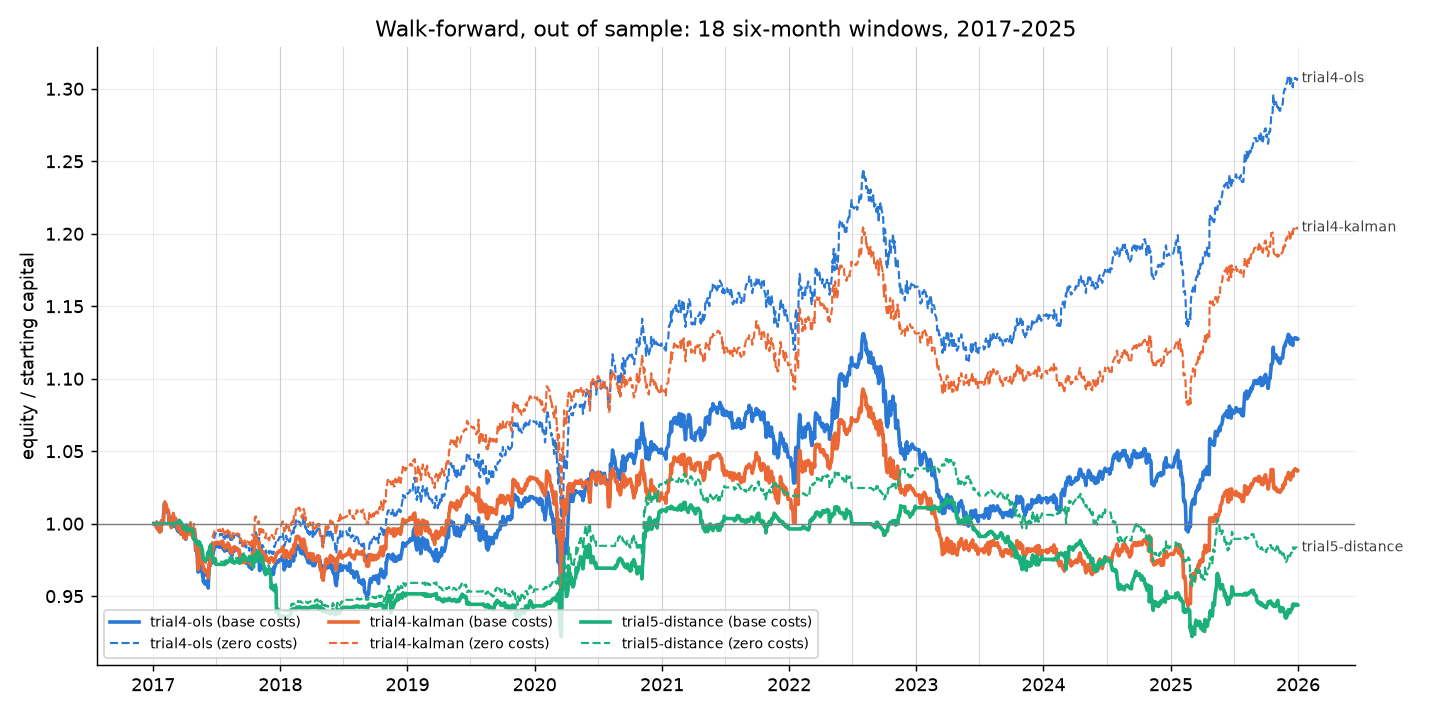
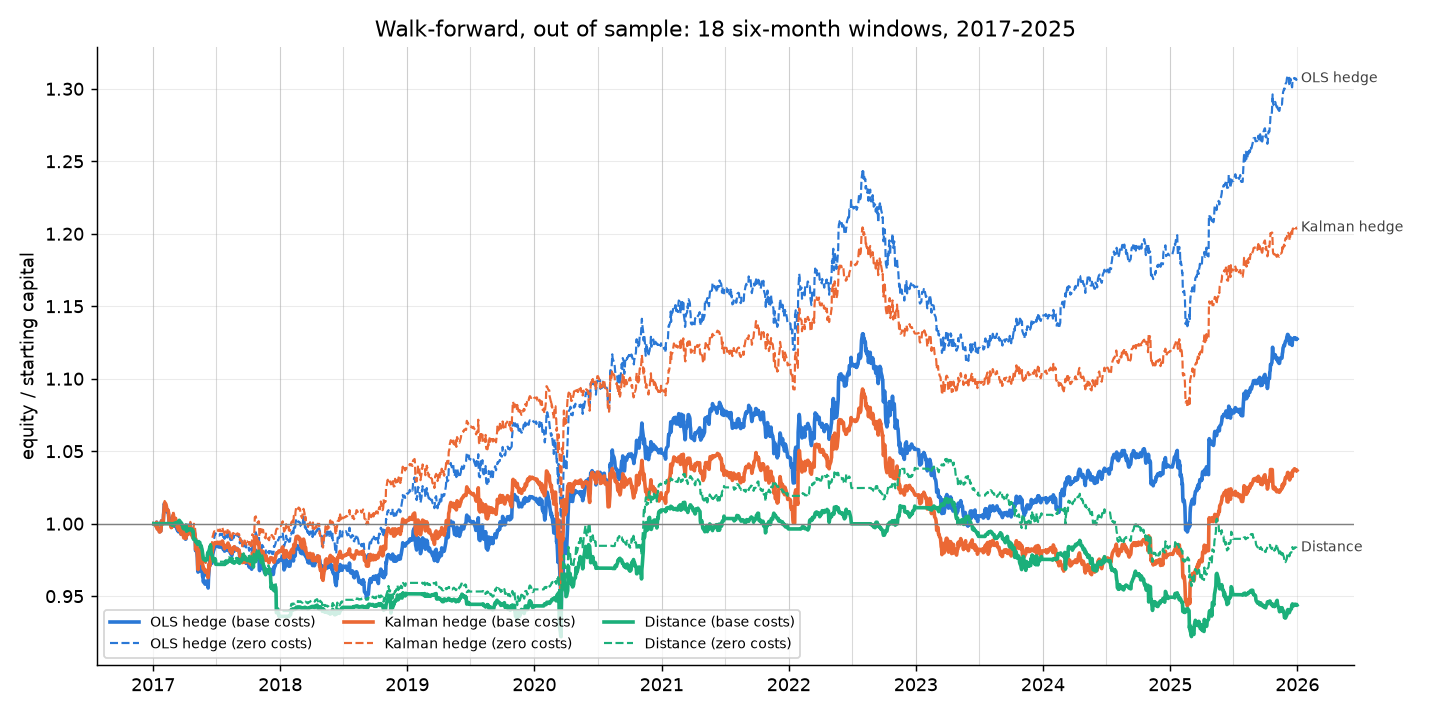
docs: reword pitch, relabel chart and dashboard variants, make diagram top-down

diff --git a/src/pairslab/walkforward.py b/src/pairslab/walkforward.py
@@ -658,29 +658,56 @@ def _style(ax: object) -> None:
         ax.spines[side].set_visible(False)  # type: ignore[attr-defined]
 
 
-def plot_equity(outputs: Sequence[WindowOutput], path: Path) -> None:
-    """Stitched out-of-sample equity per variant: base costs solid, zero costs dashed."""
+VARIANT_LABELS = {
+    "trial4-ols": "OLS hedge",
+    "trial4-kalman": "Kalman hedge",
+    "trial5-distance": "Distance",
+}
+
+
+def plot_equity_curves(curves: dict[tuple[str, str], pd.Series], path: Path) -> None:
+    """Draw stitched out-of-sample equity curves, one colour per variant.
+
+    Args:
+        curves: Equity curve (starting at 1) keyed by ``(variant, scenario)``; the base-cost
+            scenario is drawn solid and the zero-cost scenario dashed.
+        path: Output PNG path.
+
+    """
     from matplotlib.figure import Figure
 
     fig = Figure(figsize=(11, 5.5), layout="tight")
     ax = fig.subplots()
-    variants = [v for v, s in outputs[0].oos if s == BASE]
+    variants = list(dict.fromkeys(v for v, _ in curves))
     for v in variants:
         color = VARIANT_COLORS.get(v, "0.3")
+        name = VARIANT_LABELS.get(v, v)
         for scenario, ls, width in ((BASE, "-", 2.0), ("zero", "--", 1.2)):
-            curve = equity_from_returns(stitch_returns([o.oos[(v, scenario)] for o in outputs]))
-            ax.plot(curve, ls=ls, lw=width, color=color, label=f"{v} ({scenario} costs)")
+            curve = curves[(v, scenario)]
+            ax.plot(curve, ls=ls, lw=width, color=color, label=f"{name} ({scenario} costs)")
         ax.annotate(
-            f" {v}", (curve.index[-1], curve.iloc[-1]), fontsize=8, color="0.25", va="center"
+            f" {name}", (curve.index[-1], curve.iloc[-1]), fontsize=8, color="0.25", va="center"
         )
-    for o in outputs[1:]:
-        ax.axvline(pd.Timestamp(o.window.trading_start), color="0.85", lw=0.6, zorder=0)
+    for year in range(2017, 2026):
+        for month in (1, 7):
+            ax.axvline(pd.Timestamp(year=year, month=month, day=1), color="0.85", lw=0.6, zorder=0)
     ax.axhline(1.0, color="0.5", lw=0.8)
     ax.set_ylabel("equity / starting capital")
     ax.set_title("Walk-forward, out of sample: 18 six-month windows, 2017-2025")
     _style(ax)
     ax.legend(fontsize=8, ncol=3, loc="lower left")
     _save(fig, path)
+
+
+def plot_equity(outputs: Sequence[WindowOutput], path: Path) -> None:
+    """Stitched out-of-sample equity per variant: base costs solid, zero costs dashed."""
+    variants = [v for v, s in outputs[0].oos if s == BASE]
+    curves = {
+        (v, sc): equity_from_returns(stitch_returns([o.oos[(v, sc)] for o in outputs]))
+        for v in variants
+        for sc in (BASE, "zero")
+    }
+    plot_equity_curves(curves, path)
 
 
 def plot_period_sharpes(table: pd.DataFrame, path: Path) -> None:

diff --git a/app/pairslab_app/theme.py b/app/pairslab_app/theme.py
@@ -41,7 +41,7 @@ class Variant:
 VARIANTS: dict[str, Variant] = {
     "trial4-ols": Variant(
         "trial4-ols",
-        "OLS",
+        "OLS hedge",
         "Cointegration, OLS hedge",
         "#2A78D6",
         "Pairs ranked by an Engle-Granger cointegration test; hedge ratio fixed from the "
@@ -49,7 +49,7 @@ VARIANTS: dict[str, Variant] = {
     ),
     "trial4-kalman": Variant(
         "trial4-kalman",
-        "Kalman",
+        "Kalman hedge",
         "Cointegration, Kalman hedge",
         "#EB6834",
         "Same pairs, but the hedge ratio is updated every day by a Kalman filter.",

diff --git a/README.md b/README.md
@@ -4,7 +4,7 @@
 ![Python 3.11+](https://img.shields.io/badge/python-3.11%2B-blue)
 [![License: MIT](https://img.shields.io/badge/license-MIT-green)](LICENSE)
 
-**A walk-forward pairs-trading research platform (Python + C++17) that tests honestly whether the strategy survives costs and multiple-testing, and reports that it does not.**
+**A walk-forward pairs-trading research platform (Python + C++17) that measures how much of a backtest edge survives transaction costs, out-of-sample testing and multiple-testing correction.**
 
 ### Live dashboard: **<https://pairslab.streamlit.app>**
 
@@ -23,7 +23,7 @@ mistakes and to measure how much of a result survives.
 ## Method
 
 ```mermaid
-flowchart LR
+flowchart TD
     A[S&P 500 prices<br/>2015-2025, DuckDB] --> B[Formation window<br/>24 months]
     B --> C[Pair selection<br/>same sub-industry<br/>cointegration or distance<br/>top 20]
     C --> D[Signals<br/>OLS or Kalman hedge<br/>rolling z-score]

diff --git a/PROGRESS.md b/PROGRESS.md
@@ -764,3 +764,9 @@ snooping, metric errors and dashboard numbers that do not match `results/`.
 **Open questions**
 - The dashboard URL answered HTTP 303 when checked from the shell (likely a redirect or a sleeping app); open it in a browser to confirm it is live.
 - Point-in-time universe (data v2) is still the planned fix for survivorship bias, the full-sample missing-data filter and today's GICS labels.
+
+## README polish (session 13)
+- One-line pitch reworded to say what the platform measures rather than announcing the result.
+- Equity chart legend and dashboard variant names now read "OLS hedge", "Kalman hedge", "Distance" instead of trial ids (ids stay in the code and result files).
+- `plot_equity` split so the chart can be redrawn from `results/app/oos_daily_returns.csv` without rerunning the walk-forward (a rerun would append to the trials logs and DuckDB).
+- Mermaid diagram changed to `flowchart TD` so GitHub does not cut it off.
